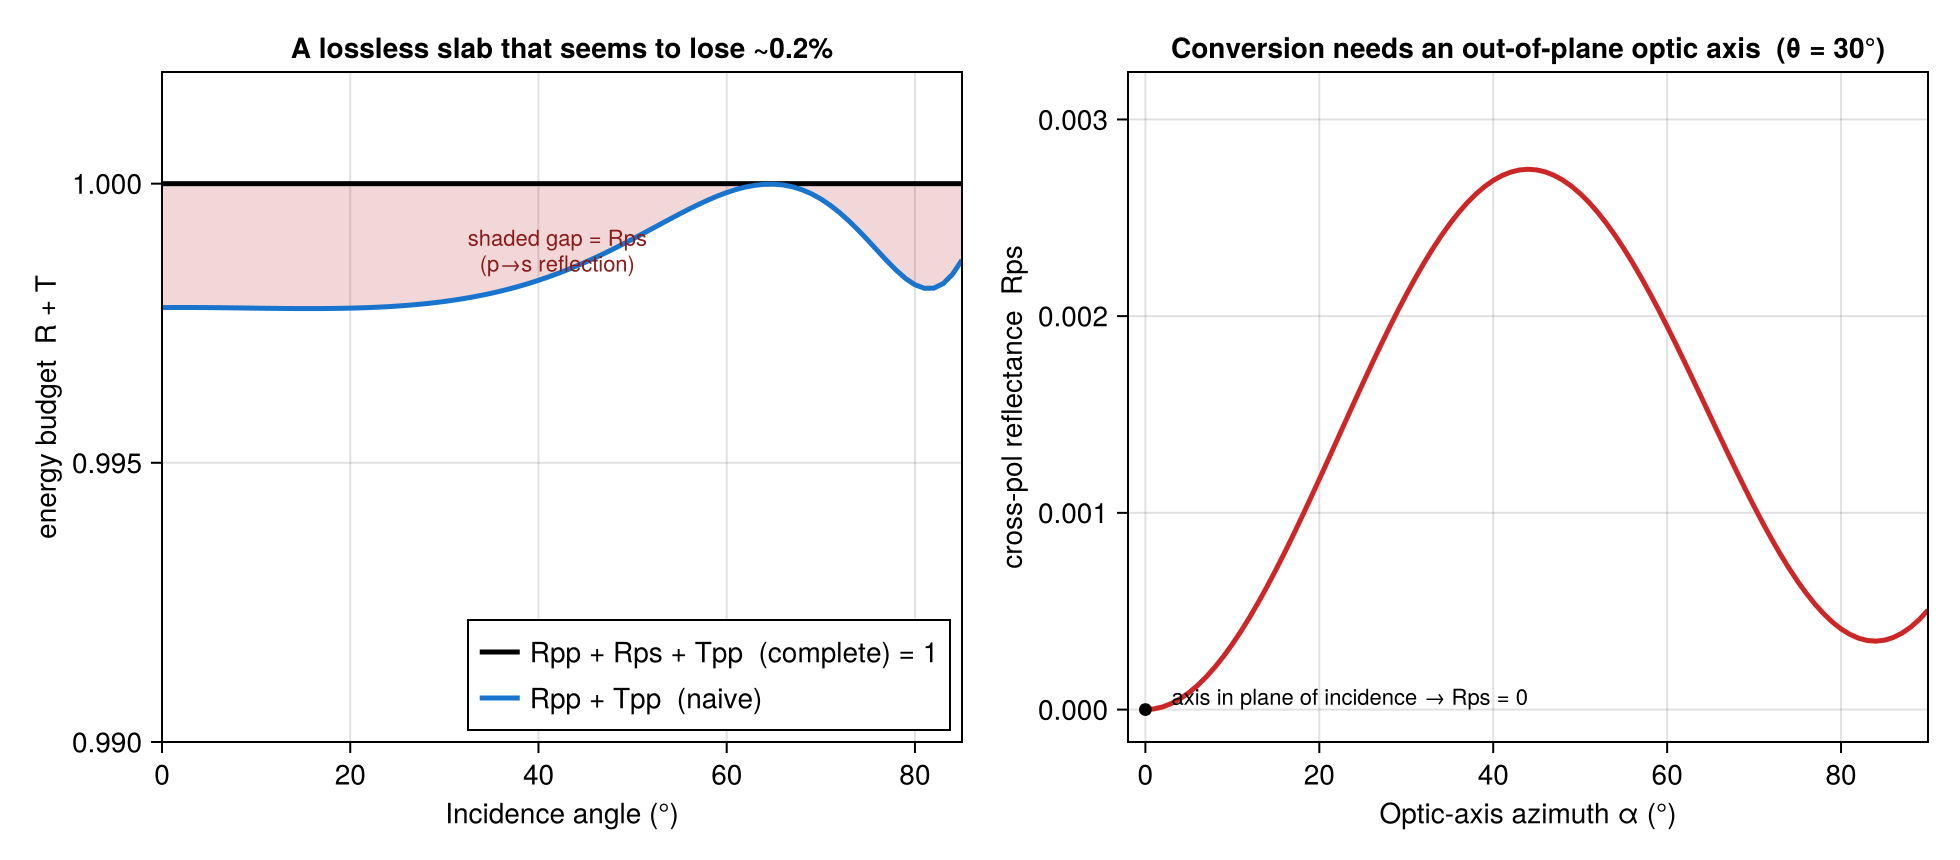
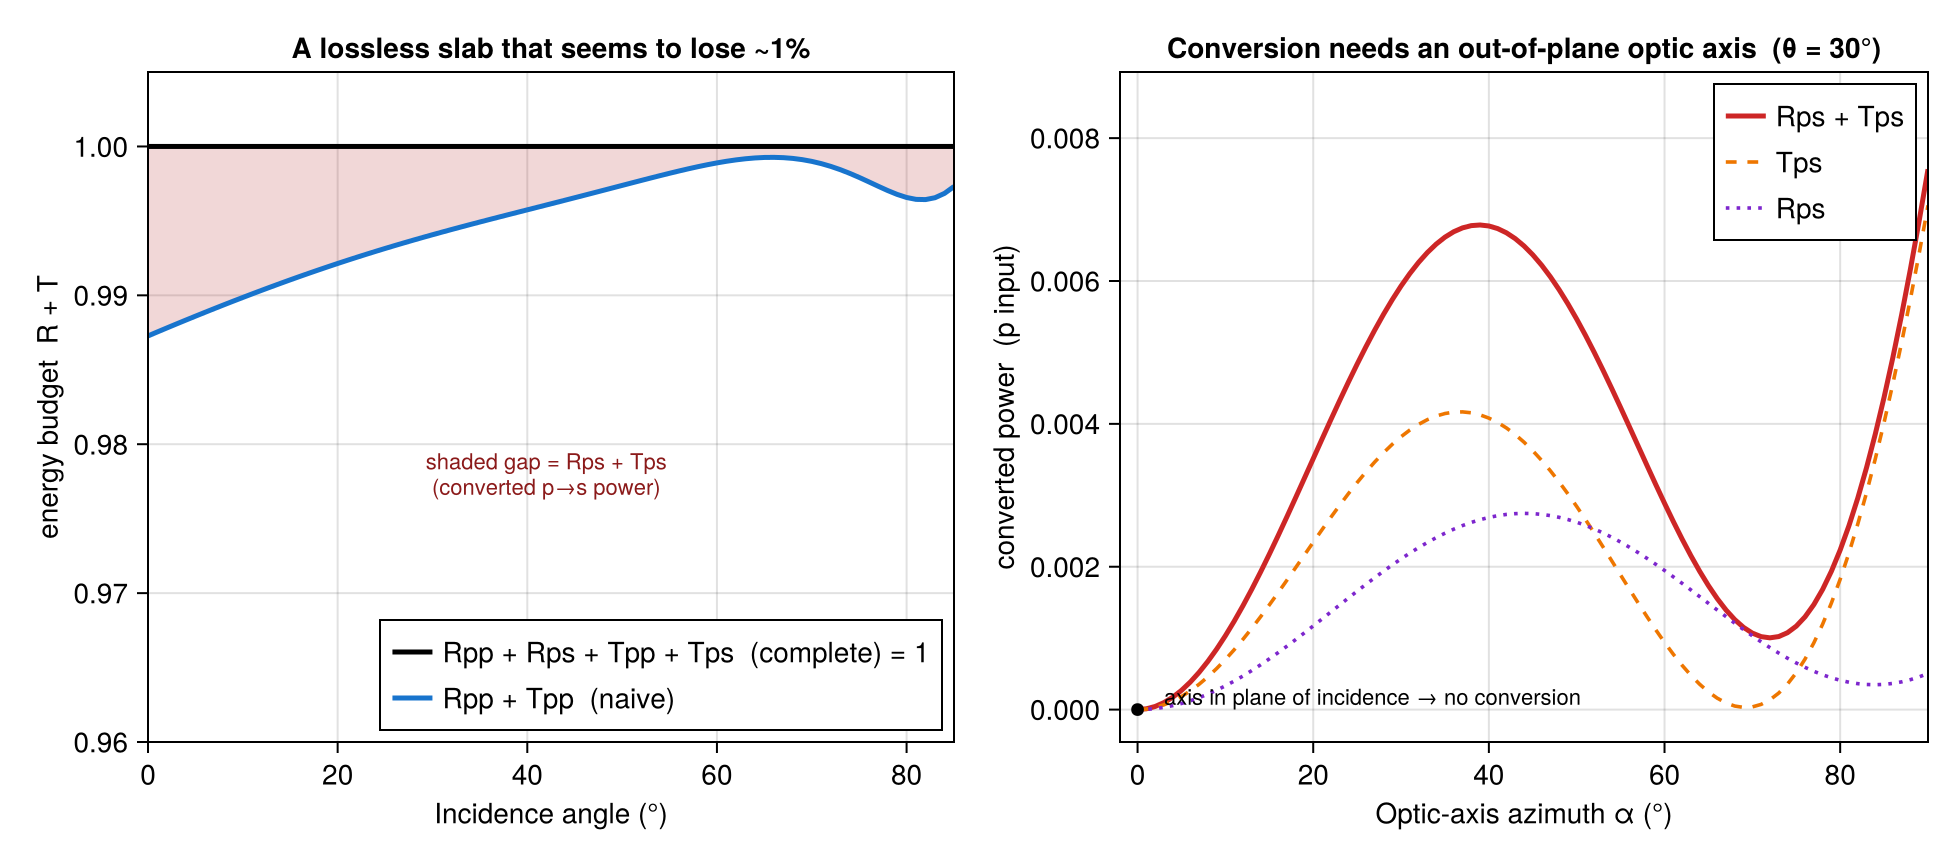
docs: per-mode cross-polarized transmittance semantics
Update the anisotropic energy-budget example (script, page, regenerated
figure), validation guide, transfer-matrix guide, and CLAUDE.md to the
corrected budget Rpp+Rps+Tpp+Tps = 1: every transmittance is the Poynting
flux of its own substrate eigenmode, so the converted channels are no
longer folded into Tpp.

diff --git a/docs/src/examples/anisotropic_energy_budget.md b/docs/src/examples/anisotropic_energy_budget.md
@@ -15,22 +15,23 @@ air  = Layer(λ -> 1.0, 1.0)
 slab = Layer(λ -> 1.658, λ -> 1.658, λ -> 1.486, 0.5; euler = (π/6, π/4, 0.0))
 
 r = transfer(1.0, [air, slab, air])          # normal incidence
-r.Rpp + r.Tpp        # ≈ 0.9978  — looks like 0.2% has vanished
+r.Rpp + r.Tpp        # ≈ 0.9873  — looks like 1.3% has vanished
 ```
 
-The slab is transparent, yet `Rpp + Tpp ≈ 0.998`. No energy is actually lost — the
+The slab is transparent, yet `Rpp + Tpp ≈ 0.987`. No energy is actually lost — the
 budget is simply incomplete.
 
-## The missing piece is polarization conversion
+## The missing pieces are the converted channels
 
 A rotated anisotropic crystal does something an isotropic film never does: it
 **converts polarization**. Send in a purely p‑polarized wave and a small
-s‑polarized component comes back, the cross‑polarized reflectance `Rps`. That
-reflected light is real, carries energy, and is exactly what the naive sum omits.
-Adding it closes the budget to machine precision:
+s‑polarized component appears in *both* directions — the cross‑polarized
+reflectance `Rps` and the cross‑polarized transmittance `Tps`. That converted
+light is real, carries energy, and is exactly what the naive sum omits. Adding
+both channels closes the budget to machine precision:
 
 ```julia
-r.Rpp + r.Rps + r.Tpp        # = 1.0   (to ~1e-15)
+r.Rpp + r.Rps + r.Tpp + r.Tps        # = 1.0   (to ~1e-15)
 ```
 
 A few conventions make this add up cleanly:
@@ -38,30 +39,33 @@ A few conventions make this add up cleanly:
   - The coefficient is indexed `r_{in,out}`, so the **p‑input** cross‑reflection is
     `Rps` (not `Rsp`, which is the *s*-input term — the two coincide only at normal
     incidence).
-  - `Tpp` here is the Poynting‑flux transmittance, which already includes the
-    cross‑transmitted (p→s) light, so you do **not** also add `Tps`.
+  - Every transmittance is a **per‑mode Poynting flux**: `Tpp` is the power carried
+    by the p‑like substrate eigenmode alone, `Tps` the power carried by the s‑like
+    eigenmode, each evaluated with its own wavevector. The four channels therefore
+    partition the transmitted energy exactly — nothing is counted twice.
 
 The per‑input‑polarization statements of energy conservation are therefore
 
 ```math
-R_{pp} + R_{ps} + T_{pp} = 1, \qquad R_{ss} + R_{sp} + T_{ss} = 1 .
+R_{pp} + R_{ps} + T_{pp} + T_{ps} = 1, \qquad R_{ss} + R_{sp} + T_{ss} + T_{sp} = 1 .
 ```
 
 ![Energy budget of a rotated anisotropic slab](../assets/examples/anisotropic_energy_budget.png)
 
 **Panel (a)** sweeps the incidence angle with the optic axis held out of plane. The
 naive `Rpp + Tpp` (blue) dips below one at every angle; the complete
-`Rpp + Rps + Tpp` (black) is flat at one. The shaded gap between them *is* `Rps`.
-(It pinches shut near 64° where this particular geometry happens to stop converting,
-then reopens — `Rps` is itself angle‑dependent.)
+`Rpp + Rps + Tpp + Tps` (black) is flat at one. The shaded gap between them *is*
+the converted power `Rps + Tps`.
 
 **Panel (b)** explains *when* the conversion happens. Holding the incidence angle
-fixed and rotating the optic axis in azimuth, `Rps` is exactly zero when the axis
-lies in the plane of incidence (`α = 0`): there the mirror symmetry of the problem
-keeps p and s decoupled, just like an isotropic medium. Tilt the axis out of that
-plane and the conversion — and the apparent energy "leak" — switches on.
+fixed and rotating the optic axis in azimuth, the converted power is exactly zero
+when the axis lies in the plane of incidence (`α = 0`): there the mirror symmetry
+of the problem keeps p and s decoupled, just like an isotropic medium. Tilt the
+axis out of that plane and the conversion — and the apparent energy "leak" —
+switches on, mostly in transmission (`Tps`) with a smaller reflected share (`Rps`).
 
 The lesson generalizes: for any anisotropic stack, always account for the
-cross‑polarized channels before concluding that energy is or isn't conserved.
+cross‑polarized channels — both reflected *and* transmitted — before concluding
+that energy is or isn't conserved.
 
 The full runnable script is [`examples/anisotropic_energy_budget.jl`](https://github.com/garrekstemo/TransferMatrix.jl/blob/main/examples/anisotropic_energy_budget.jl).

diff --git a/CLAUDE.md b/CLAUDE.md
@@ -96,7 +96,9 @@ Pass via the `sheets=` kwarg (Dict or iterable of `i => sheet`) on
 - **Time convention**: `exp(-iωt)` (Berreman / Passler & Paarmann), opposite of
   Yeh. Flips the sign in the propagation matrix — matters when comparing formulas.
 - **Transmittance ≠ |t|²** in general: the transmitted wave is in a different
-  medium, so T needs a Poynting-vector ratio (`T = S_out,z / S_inc,z`).
+  medium, so T needs a Poynting-vector ratio (`T = S_out,z / S_inc,z`). This holds
+  for **all four** channels: `Tpp/Tss/Tps/Tsp` are each the Poynting flux of one
+  substrate eigenmode (evaluated with its own wavevector) over the incident flux.
   Reflectance uses `R = |r|²` directly.
 - **γᵢ₃₃ sign correction**: Eq. 13 of Xu et al. (2000) / Eq. 20 of Passler (2017)
   has a sign error in γᵢ₃₃ as printed. All γⱼ₃ must satisfy the z-constraint
@@ -111,15 +113,19 @@ conservation): `.claude/rules/berreman-4x4-equations.md`.
 
 - **#70** (resolved): rotated anisotropic crystals conserve energy. The quoted
   `Tpp+Rpp ≈ 0.998` (uniaxial `euler=(π/6,π/4,0)`) was a **budget artifact** — it
-  omits the reflected cross-pol `Rps` that an out-of-plane tilt produces. The correct
-  per-input-polarization budget is `Rpp+Rps+Tpp = 1` and `Rss+Rsp+Tss = 1` (holds to
-  ~1e-14; the Poynting `Tpp` already includes the cross-*transmitted* power, so do
-  **not** also add `Tps`/`Tsp`). Convention: `r_{in,out}` — p-input cross-reflection
-  is `Rps`, not `Rsp` (they coincide only at normal incidence). Separately, a genuine
-  bug — transmission into an **anisotropic substrate** (`Rpp+Rps+Tpp ≈ 1.017`) — was
+  omits the converted channels that an out-of-plane tilt produces. The correct
+  per-input-polarization budget is `Rpp+Rps+Tpp+Tps = 1` and `Rss+Rsp+Tss+Tsp = 1`
+  (holds to ~1e-14). Every transmittance is a **per-mode Poynting flux**: `Tpp` is
+  the p-like substrate eigenmode's power only, `Tps` the s-like eigenmode's, each
+  evaluated with its own wavevector. (Historical bug: `Tpp` used to be the TOTAL
+  per-input flux while `Tps = |tps|²` was an amplitude ratio — converting stacks
+  then double-counted, e.g. a lossless half-wave plate at 45° gave a p-input sum
+  of 1.85.) Convention: `r_{in,out}` — p-input cross-reflection is `Rps`, not
+  `Rsp` (they coincide only at normal incidence). Separately, a genuine bug —
+  transmission into an **anisotropic substrate** (`Rpp+Rps+Tpp ≈ 1.017`) — was
   fixed in `poynting()`: the two transmitted substrate eigenmodes carry different
-  wavevectors, so their Poynting vectors are now summed per-mode instead of using one
-  wavevector for the combined field.
+  wavevectors, so their Poynting vectors are evaluated per-mode instead of using
+  one wavevector for the combined field.
 - **#71**: anisotropic ambient at oblique incidence → NaN (uses nx for k_par).
 - **#72**: absorbing incident medium — |r|² is not a true energy reflectance. The
   Poynting vector is non-additive for absorbing incident media (interference

diff --git a/docs/src/guide/validation.md b/docs/src/guide/validation.md
@@ -70,13 +70,23 @@ Dividing by ``S_{\text{incident}}``:
 T = \frac{n_2 \cos\theta_2}{n_1 \cos\theta_1} |t|^2
 ```
 
-This is why TransferMatrix.jl uses Poynting vector calculations rather than simply squaring the transmission coefficient.
+This is why TransferMatrix.jl uses Poynting vector calculations rather than simply squaring the transmission coefficient — for **every** channel, including the cross-polarized ones (each transmittance is the Poynting flux of its own substrate eigenmode).
+
+**Anisotropic (polarization-converting) stacks:** a rotated birefringent or gyrotropic layer converts p ↔ s, so part of the incident power leaves through the cross-polarized channels. The budget checked per input polarization is therefore
+
+```math
+R_{pp} + R_{ps} + T_{pp} + T_{ps} = 1, \qquad R_{ss} + R_{sp} + T_{ss} + T_{sp} = 1 ,
+```
+
+which reduces to ``R + T = 1`` for isotropic stacks, where the cross terms vanish.
 
 **Example warning:**
 ```
 ┌ Warning: Energy conservation violated for p-polarization
 │   Tpp = 0.72
+│   Tps = 0.0
 │   Rpp = 0.25
+│   Rps = 0.0
 │   sum = 0.97
 │   expected = 1.0
 │   deviation = 0.03
@@ -142,7 +152,7 @@ Validation does **not** catch all possible errors:
 - **Field continuity:** Tangential E and H fields should be continuous across interfaces. This is tested in the test suite but not validated at runtime.
 - **Incorrect but consistent results:** If there's a systematic error that affects both R and T equally, energy conservation might still hold.
 - **Material data errors:** Validation can't detect if your refractive index data is wrong—only that the calculation is self-consistent.
-- **Anisotropic media issues:** The validation assumes isotropic materials. For birefringent media, additional checks may be needed.
+- **Per-channel errors that cancel in the budget:** The energy check sums all four channels per input polarization, so a systematic redistribution between co- and cross-polarized channels that preserves the total would not be flagged.
 
 ## Tolerance Parameters
 

diff --git a/docs/src/guide/transfer_matrix.md b/docs/src/guide/transfer_matrix.md
@@ -68,9 +68,11 @@ r_{sp} &= \frac{M_{11}M_{23} - M_{21}M_{13}}{d}.
 \end{aligned}
 ```
 
-Reflectance is then ``R = |r|^2`` directly, while transmittance ``T`` is a
-Poynting-vector flux ratio rather than ``|t|^2`` (the transmitted wave lives in a
-different medium) — see [Physics Validation](validation.md). These formulas are exactly
+Reflectance is then ``R = |r|^2`` directly, while every transmittance ``T`` —
+co- and cross-polarized alike — is a Poynting-vector flux ratio rather than
+``|t|^2`` (the transmitted wave lives in a different medium): each channel is the
+flux of one substrate eigenmode, evaluated with its own wavevector — see
+[Physics Validation](validation.md). The amplitude formulas above are exactly
 what [`calculate_tr`](@ref) evaluates.
 
 The full ``16``-element map: